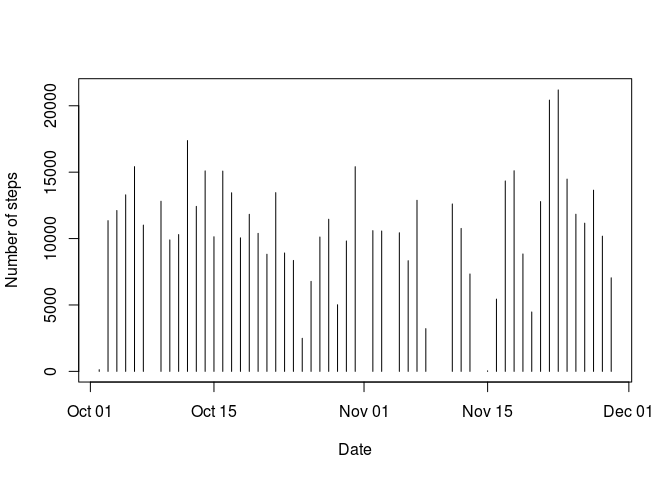
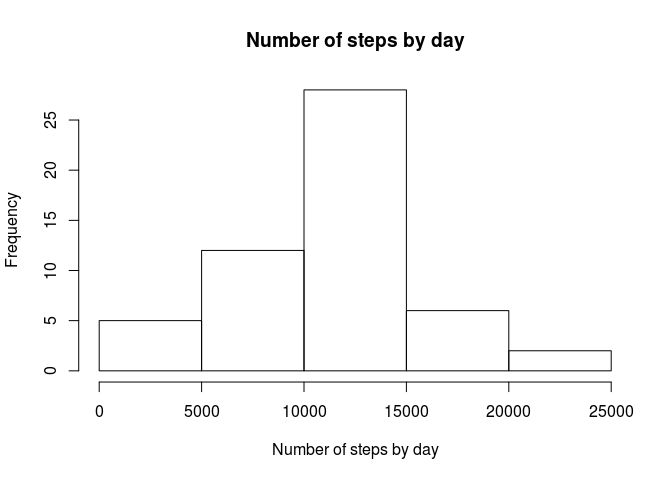
small modif

diff --git a/PA1_template.html b/PA1_template.html
@@ -139,8 +139,8 @@ Sys.setlocale(&quot;LC_ALL&quot;, &quot;en_GB.UTF-8&quot;)</code></pre>
 <h2>What is mean total number of steps taken per day?</h2>
 <p>Histograms of the number of steps by day:</p>
 <pre class="r"><code>stepsbyday &lt;- aggregate(cleandata$steps, by = list(date=cleandata$date), FUN = sum)
-plot(stepsbyday$date, stepsbyday$x, type = &quot;h&quot;, xlab = &quot;Date&quot;, ylab = &quot;Number of steps&quot;)</code></pre>
[1 lines of base64/hex data omitted]
+hist(stepsbyday$x, xlab = &quot;Number of steps by day&quot;, main = &quot;Number of steps by day&quot;)</code></pre>
[1 lines of base64/hex data omitted]
 <pre class="r"><code>meansteps &lt;- mean(stepsbyday$x)
 mediansteps &lt;- median(stepsbyday$x)</code></pre>
 <p>The mean and median number of steps by day are, repectively, 10766.19 and 10765.</p>
@@ -168,8 +168,8 @@ newdata$steps &lt;- round(newdata$steps)
 newdata$x &lt;- NULL</code></pre>
 <p>Checking new data:</p>
 <pre class="r"><code>newstepsbyday &lt;- aggregate(newdata$steps, by = list(date=newdata$date), FUN = sum)
-plot(newstepsbyday$date, newstepsbyday$x, type = &quot;h&quot;, xlab = &quot;Date&quot;, ylab = &quot;Number of steps&quot;)</code></pre>
[1 lines of base64/hex data omitted]
+hist(newstepsbyday$x, xlab = &quot;Number of steps by day&quot;, main = &quot;Number of steps by day (filled NA's)&quot;)</code></pre>
[1 lines of base64/hex data omitted]
 <pre class="r"><code>newmeansteps &lt;- mean(newstepsbyday$x)
 newmediansteps &lt;- median(newstepsbyday$x)</code></pre>
 <p>The new mean and median number of steps by day are, repectively, 10821.1 and 11015. These numbers are slightly higher than those found previously ignoring NA’s. This shows that imputing missing values can be risky as it can lead to differences on the analysis results. Better be sure on the assumption made for doing it and you have to assign some systematic uncertainties on this assumption.</p>

diff --git a/PA1_template.md b/PA1_template.md
@@ -25,7 +25,7 @@ Histograms of the number of steps by day:
 
 ```r
 stepsbyday <- aggregate(cleandata$steps, by = list(date=cleandata$date), FUN = sum)
-plot(stepsbyday$date, stepsbyday$x, type = "h", xlab = "Date", ylab = "Number of steps")
+hist(stepsbyday$x, xlab = "Number of steps by day", main = "Number of steps by day")
 ```
 
 ![](PA1_template_files/figure-html/unnamed-chunk-2-1.png)<!-- -->
@@ -85,7 +85,7 @@ Checking new data:
 
 ```r
 newstepsbyday <- aggregate(newdata$steps, by = list(date=newdata$date), FUN = sum)
-plot(newstepsbyday$date, newstepsbyday$x, type = "h", xlab = "Date", ylab = "Number of steps")
+hist(newstepsbyday$x, xlab = "Number of steps by day", main = "Number of steps by day (filled NA's)")
 ```
 
 ![](PA1_template_files/figure-html/unnamed-chunk-6-1.png)<!-- -->
